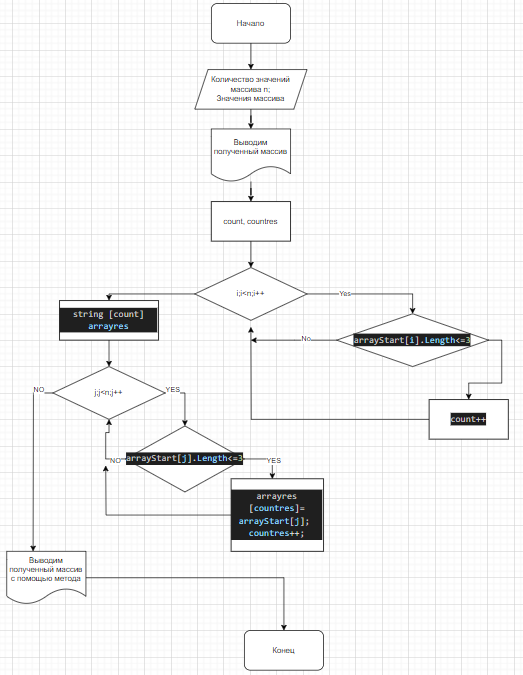
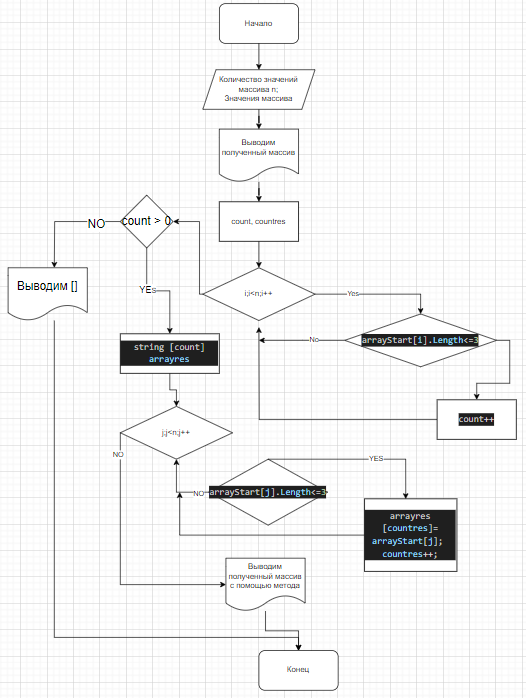
finalallend

diff --git a/Program.cs b/Program.cs
@@ -36,13 +36,18 @@ void PrintArray(string[] arrayStart)
 System.Console.Write("]");
 }
 
-string [] CheckArray (string [] arrayStart)
+int CheckArray (string [] arrayStart)
 {
 int count =0;
 for (int i = 0; i<arrayStart.GetLength(0); i++)
 {
     if (arrayStart[i].Length<=3)count++;
 }
+return count;
+}
+
+string [] FormArray (string [] arrayStart, int count)
+{
 string [] arrayres = new string [count];
 int countres = 0;
 for (int j = 0; j<arrayStart.GetLength(0); j++)
@@ -64,5 +69,13 @@ return arrayres;
 string[] arrayStart =  InputArray ();
 PrintArray(arrayStart);
 System.Console.Write("->");
-string[] arrayres =  CheckArray (arrayStart);
-PrintArray(arrayres);
+int count =  CheckArray (arrayStart);
+if (count >0)
+{
+    string[] arrayres = FormArray(arrayStart, count);
+    PrintArray(arrayres);
+}
+else
+{
+    System.Console.Write("[]");
+}

diff --git a/README.md b/README.md
@@ -24,8 +24,12 @@
 Далее описана программа поэтапного решения и ниже представлен рисунок с блок схемой программы:
 1. Исходный массив вводится с клавиатуры при помощи метода. 
 2. Введеный масив выводится на печать без перехода коретки
-3. Выполнятется цикл в методе, в котором проверяется длина массива и вслучае удовлетворения условия (длина которых меньше, либо равна 3 символам) происходит запись в финальный массив.
-4. Финальный выводится на печать.
+3. Выполнятется цикл в методе, в котором проверяется длина массива и выводиться количество ячеек массива до 3 символов включительно.
+4. Проверяется условие, в котором количество количество ячеек массива до 3 символов включительно должно быть больше нуля:
+
+    1. Проверка не проходит и печатается [].
+
+    2. Формируется массив, который с помощью метода выводится на печать.
 
 ## Блок схема программы.
 ![Блок схема](bs.png)
